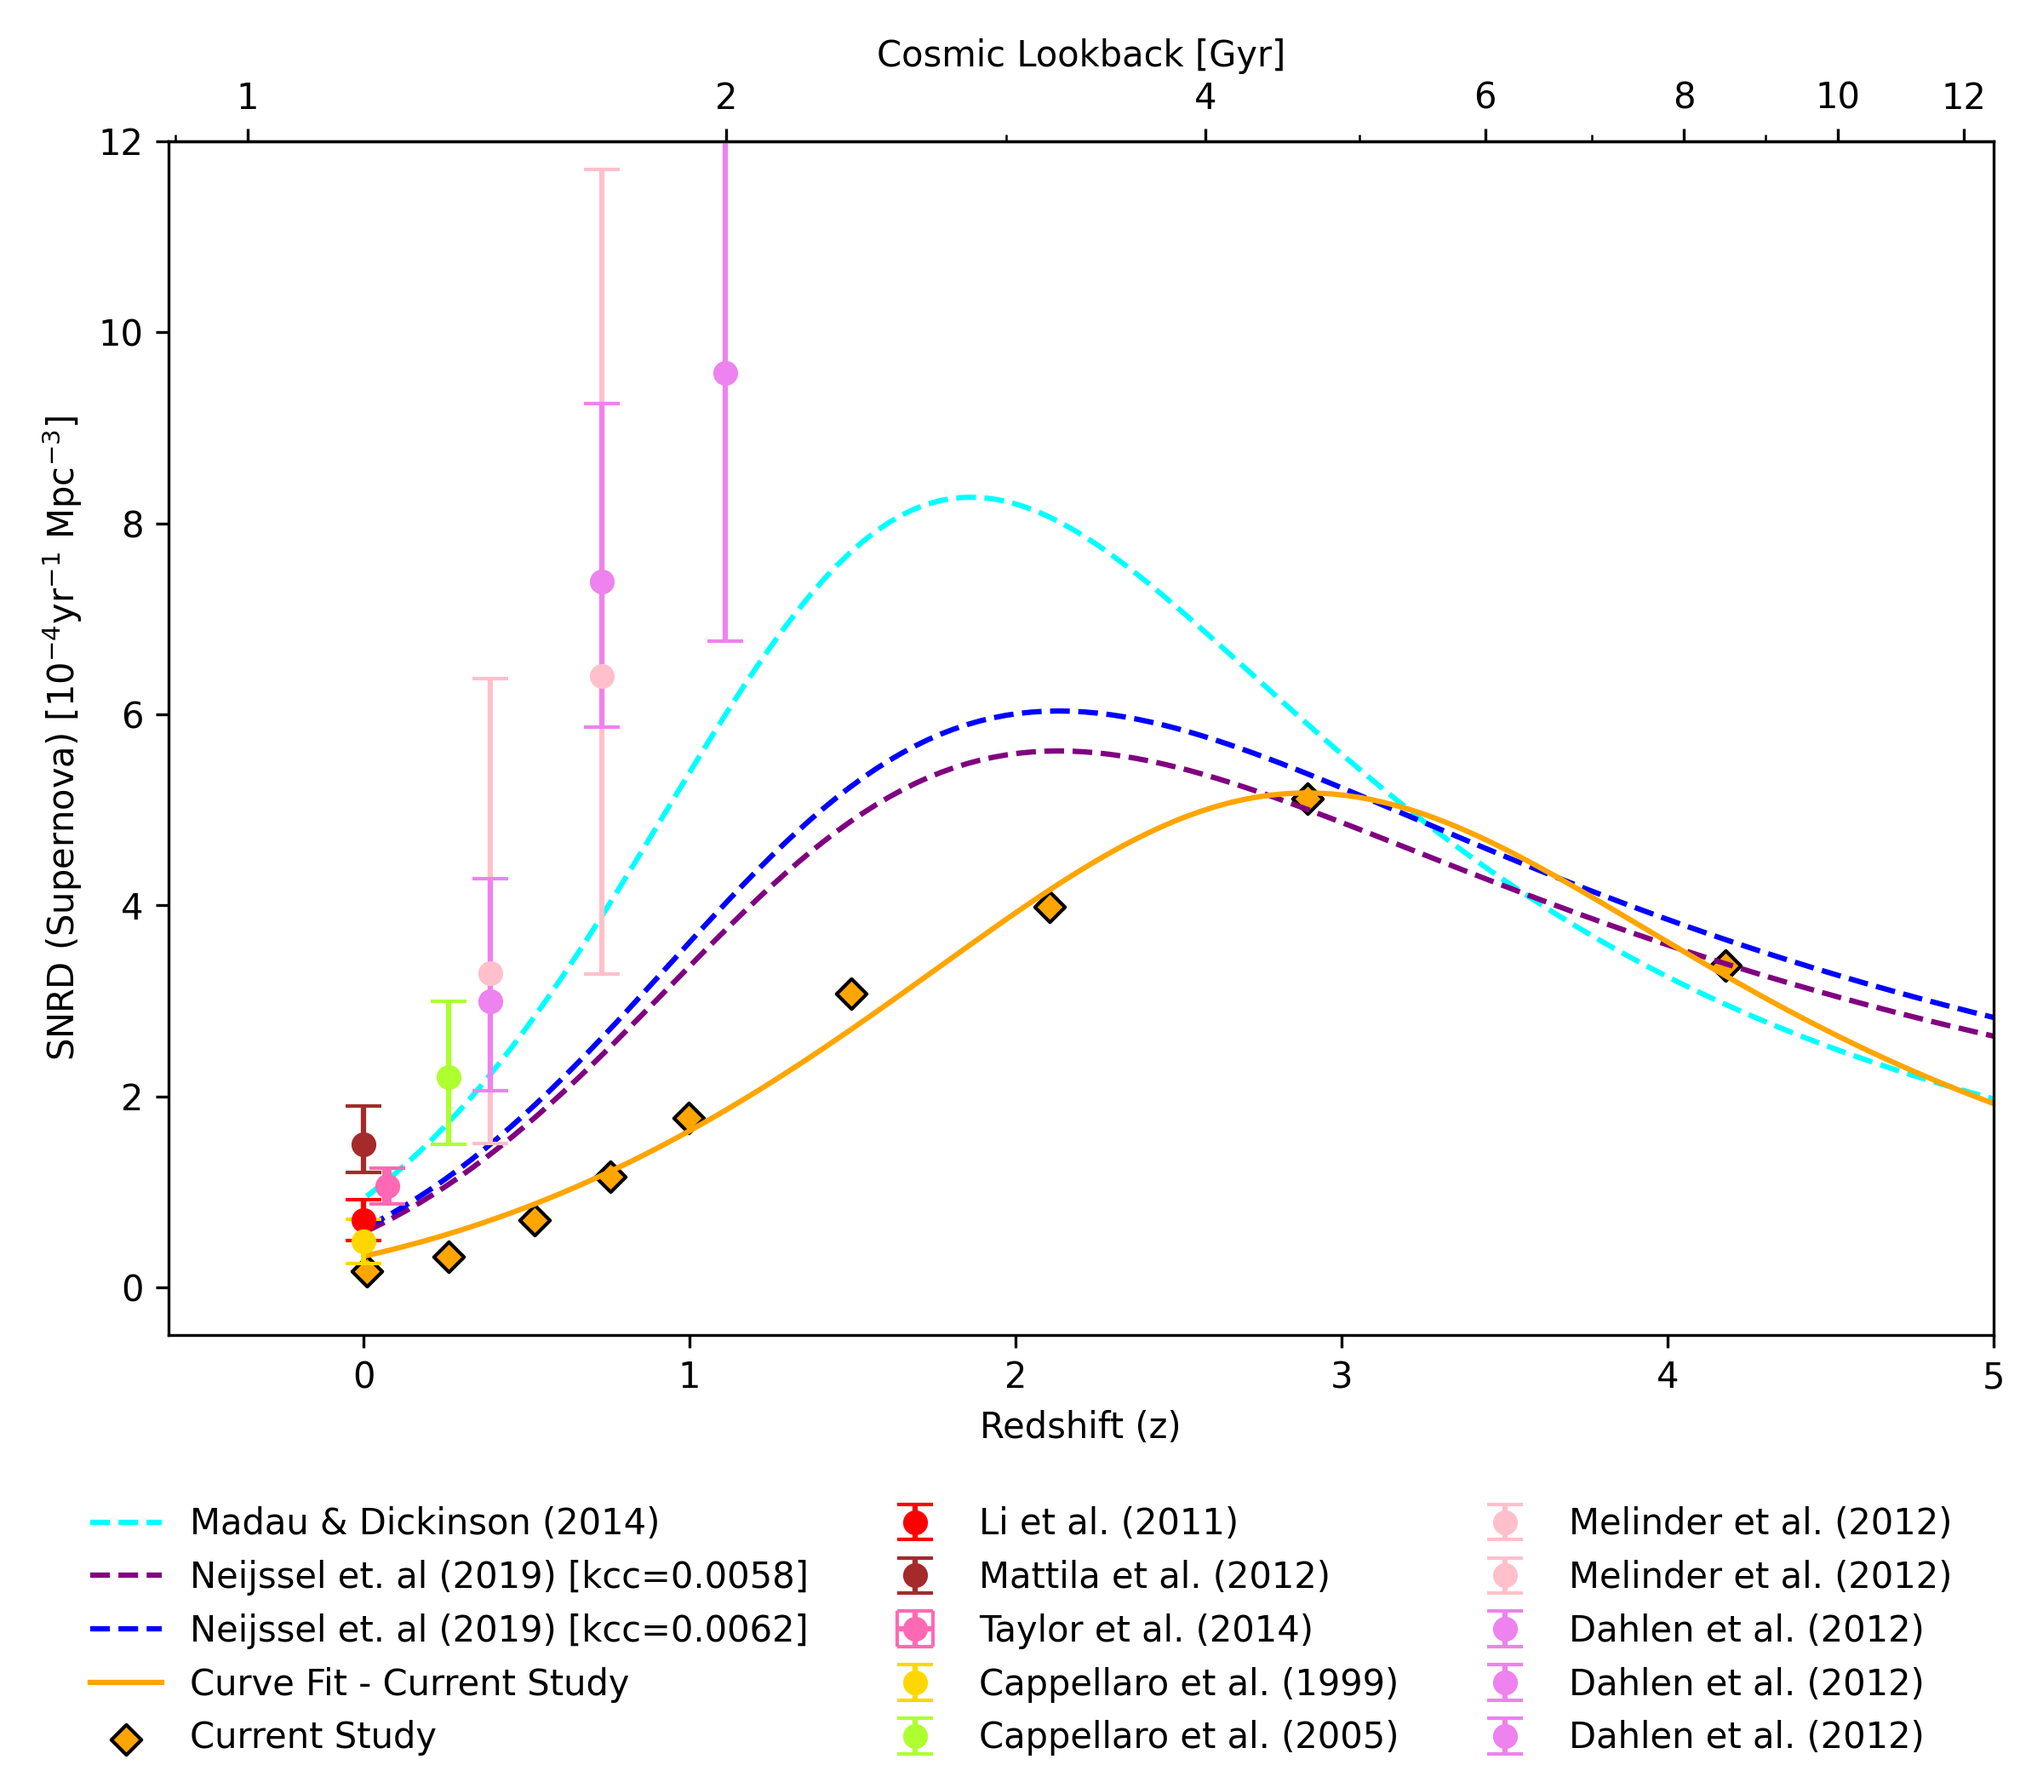
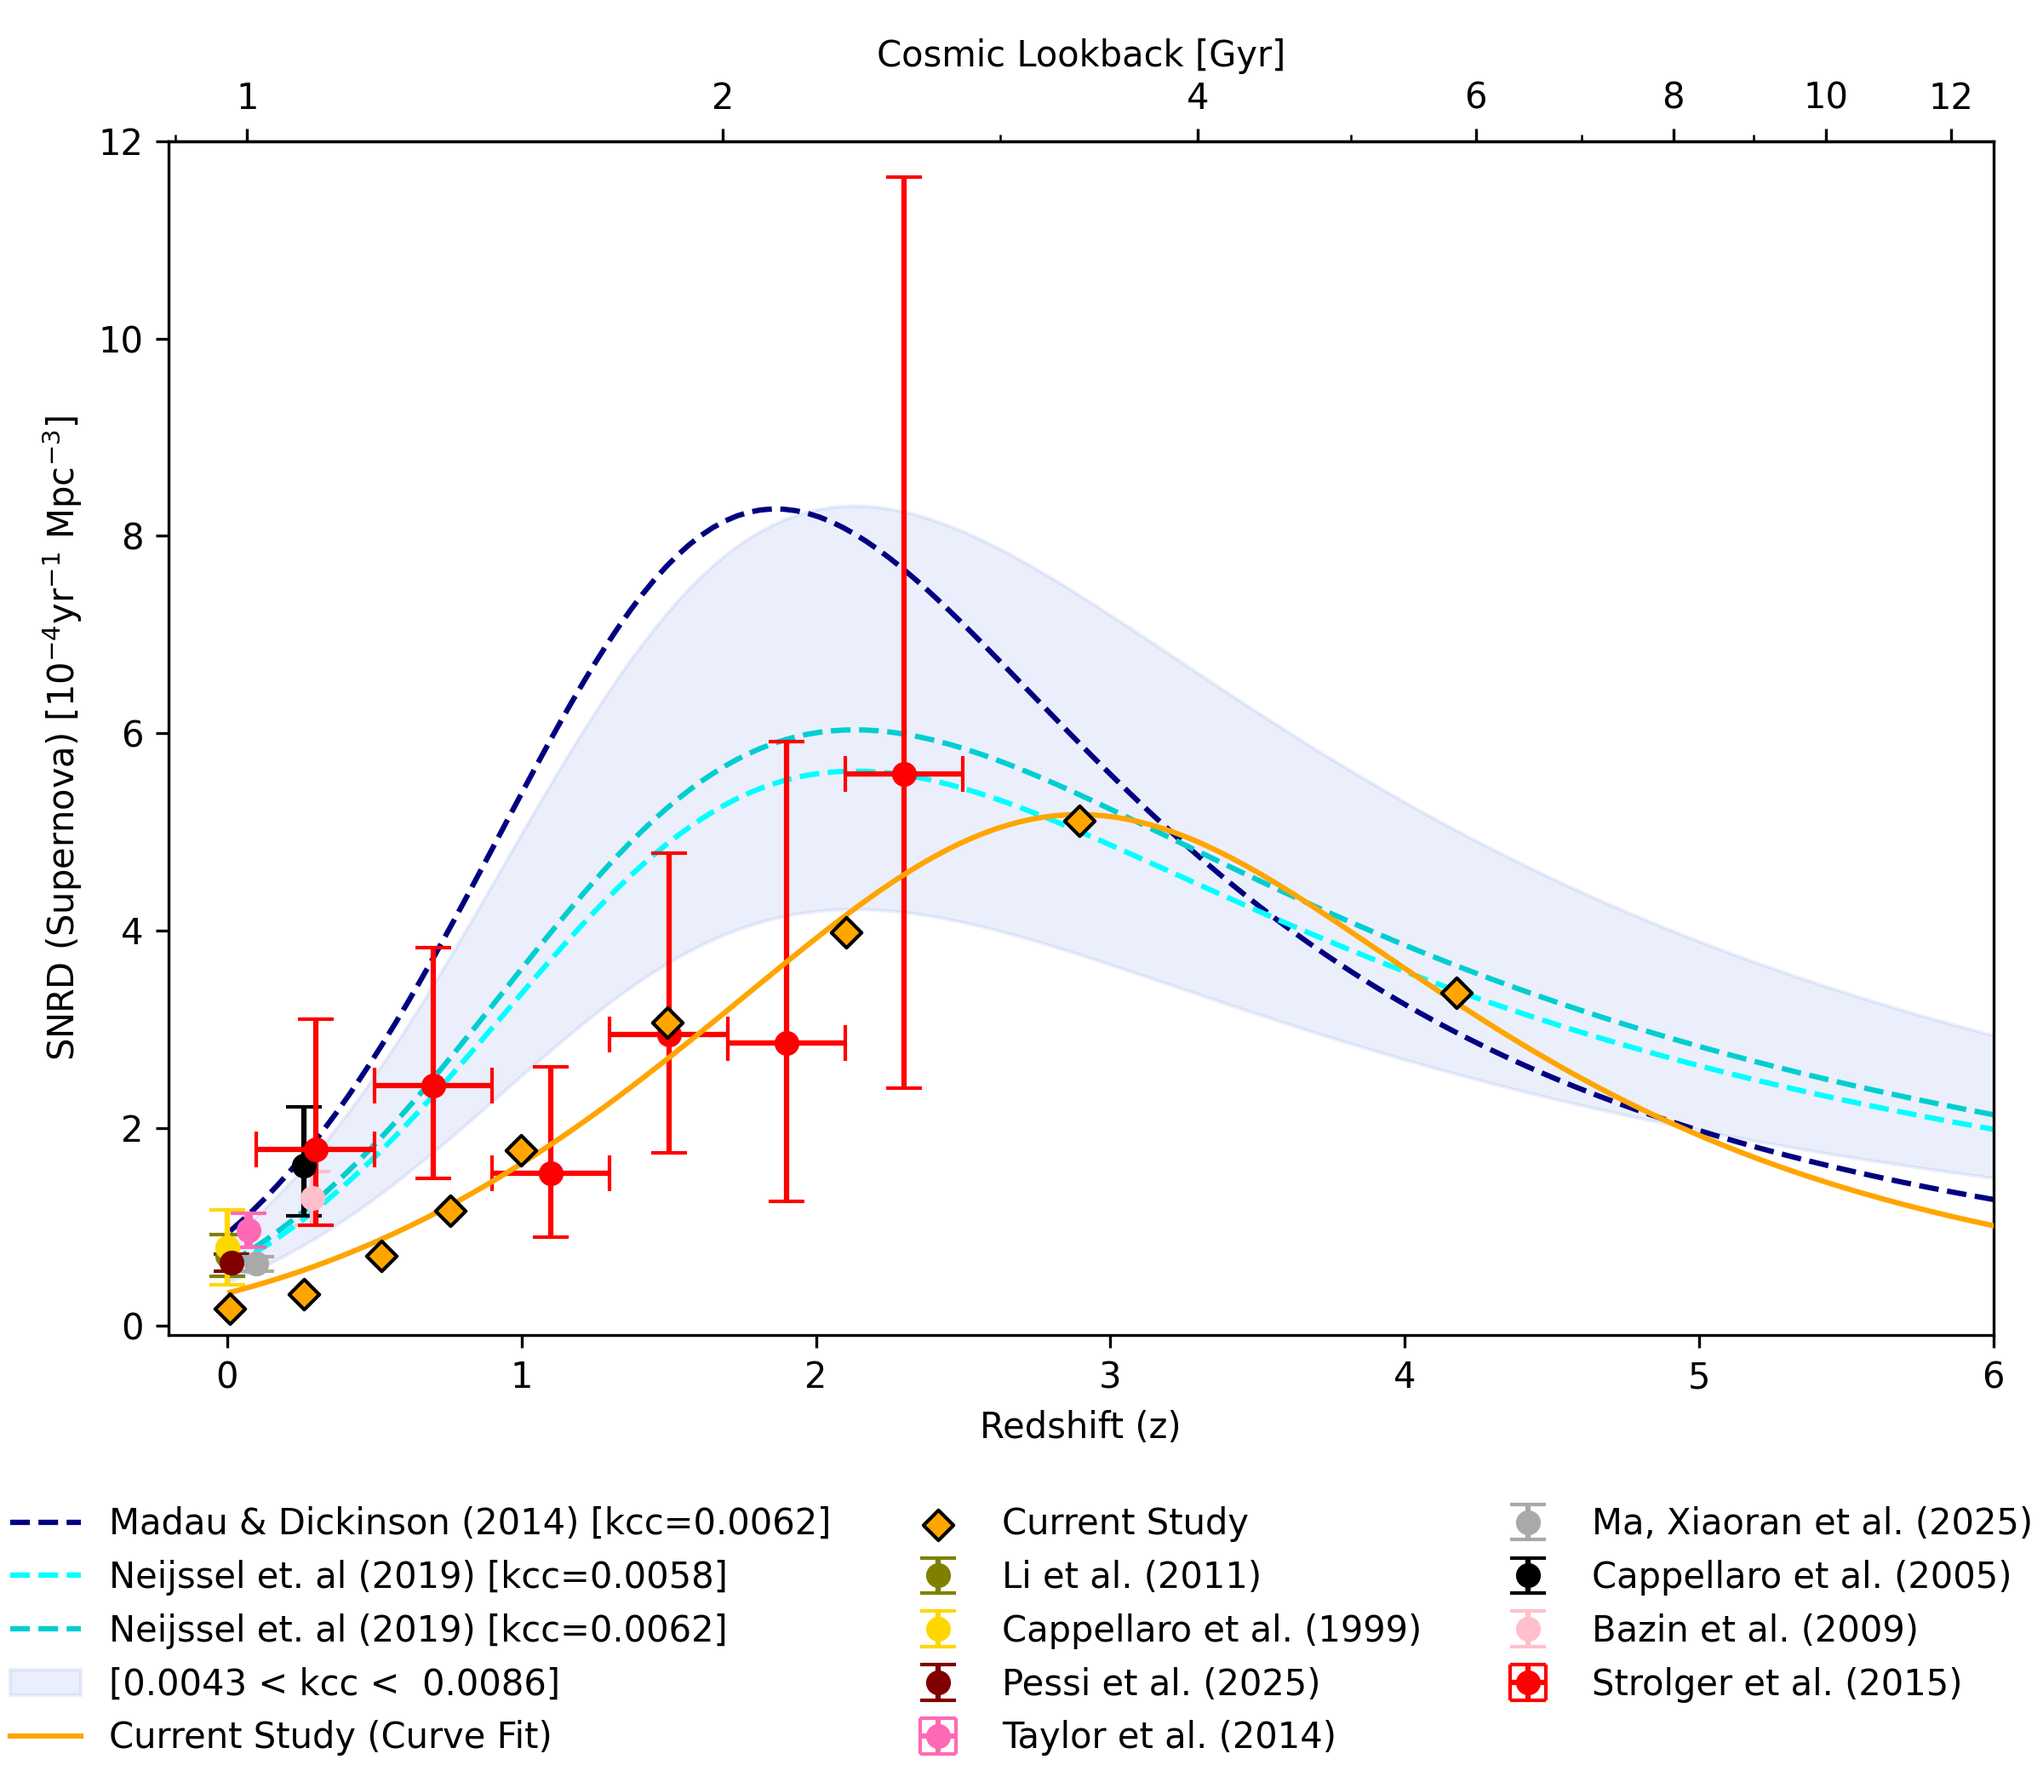
updated cosmic graphs

diff --git a/tng.py b/tng.py
@@ -701,44 +701,73 @@ print('scaling lower;', kcc_1_lower)
 snrd_md14 = 0.015 * pow((1 + redshift_linespace), 2.7)/(1 + pow((1 + redshift_linespace)/2.9, 5.6)) * kcc_1
 snrd_mf17 = 0.01 * pow((1 + redshift_linespace), 2.6)/(1 + pow((1 + redshift_linespace)/3.2, 6.2)) * kcc_1
 
-snrd_nv19 = 0.01 * pow((1 + redshift_linespace), 2.77)/(1 + pow((1 + redshift_linespace)/2.9, 4.7))
+sfrd_nv19 = 0.01 * pow((1 + redshift_linespace), 2.77)/(1 + pow((1 + redshift_linespace)/2.9, 4.7))
 
 # plot lines
-ax_total_snr.plot(redshift_linespace, snrd_md14, label=f'Madau & Dickinson (2014)', color='cyan', ls='--')
+ax_total_snr.plot(redshift_linespace, snrd_md14, label=f'Madau & Dickinson (2014) [kcc={kcc_1:.4f}]', color='navy', ls='--')
 #ax_total_snr.plot(redshift_linespace, snrd_mf17, label=f'Madau & Fragos (2017)', color='purple', ls='--')
-ax_total_snr.plot(redshift_linespace, snrd_nv19 * kcc_avg, label=f'Neijssel et. al (2019) [kcc={kcc_avg:.4f}]', color='purple', ls='--')
-ax_total_snr.plot(redshift_linespace, snrd_nv19 * kcc_1, label=f'Neijssel et. al (2019) [kcc={kcc_1:.4f}]', color='blue', ls='--')
-#ax_total_snr.plot(redshift_linespace, snrd_nv19 * kcc_1_upper, label=f'Neijssel et. al (2019) [kcc={kcc_1_upper:.4f}]', color='navy', ls='--')
-#ax_total_snr.plot(redshift_linespace, snrd_nv19 * kcc_1_lower, label=f'Neijssel et. al (2019) [kcc={kcc_1_lower:.4f}]', color='cyan', ls='--')
-ax_total_snr.plot(redshift_linespace, curve_snr, label=f'Curve Fit - Current Study', color='orange')
-#ax_total_snr.plot(redshift_linespace, curve_all * kcc, label=f'Curve Fit - TNG100-1 (All Halos)', color='lime')
+ax_total_snr.plot(redshift_linespace, sfrd_nv19 * kcc_avg, label=f'Neijssel et. al (2019) [kcc={kcc_avg:.4f}]', color='cyan', ls='--')
+ax_total_snr.plot(redshift_linespace, sfrd_nv19 * kcc_1, label=f'Neijssel et. al (2019) [kcc={kcc_1:.4f}]', color='darkturquoise', ls='--')
+ax_total_snr.fill_between(redshift_linespace, sfrd_nv19 * kcc_IIP, sfrd_nv19 * kcc_Ibc, color='royalblue', alpha=0.1, label=f'[{kcc_Ibc:.4f} < kcc <  {kcc_IIP:.4f}]')
+ax_total_snr.plot(redshift_linespace, curve_snr, label=f'Current Study (Curve Fit)', color='orange', zorder=99)
 
 # scatter
-ax_total_snr.scatter(rev_redshifts, total_snr, label=f'Current Study', color='orange', marker='D', edgecolors='black')
+ax_total_snr.scatter(rev_redshifts, total_snr, label=f'Current Study', color='orange', marker='D', edgecolors='black', zorder=100)
 #ax_total_snr.scatter(rev_redshifts, sfrh_halos * kcc, label=f'TNG100-1 (All Halos)', color='lime', marker='D', edgecolors='black')
 
 # plot data points
-#ax_total_snr.axhline(0.447e-4, color='black', ls='--', label='0.447e-4')
-#ax_total_snr.axhline(0.258e-4, color='black', ls='--', label='0.258e-4')
-ax_total_snr.errorbar(0, 0.258e-4+0.447e-4, yerr=0.072e-4+0.139e-4, capsize=5, color='red', label='Li et al. (2011)', fmt='o')
-ax_total_snr.errorbar(0, 1.5e-4, yerr=[[0.3e-4], [0.4e-4]], capsize=5, color='brown', label='Mattila et al. (2012)', fmt='o')
-ax_total_snr.errorbar(0.072, 1.06e-4, yerr=[[0.19e-4], [0.19e-4]], xerr=[[0.009], [0.009]], capsize=5, color='hotpink', label='Taylor et al. (2014)', fmt='o')
-ax_total_snr.errorbar(0, 0.48e-4, yerr=[[0.23e-4], [0.23e-4]], capsize=5, color='gold', label='Cappellaro et al. (1999)', fmt='o')
-ax_total_snr.errorbar(0.26, 2.2e-4, yerr=[[0.7e-4], [0.8e-4]], capsize=5, color='greenyellow', label='Cappellaro et al. (2005)', fmt='o')
+H0 = 67.74 # km/s/Mpc from the TNG project
+h70 = H0/70 
+h75 = H0/75
+rho_b = 1.82e8 * h75 #Norberg et al -> luminosity density 
+c1999 = ((0.48/100) /1e10 ) * rho_b # conversion to yr-1 Mpc-3 using  1 SN (100yr)−1 (1010LBo)-1 abd h75
+c1999_err = ((0.23/100) /1e10 ) * rho_b
+print(f"Hubble, {h70}, {h75}")
+ax_total_snr.errorbar(0, 0.258e-4+0.447e-4, yerr=0.072e-4+0.139e-4, capsize=5, color='olive', label='Li et al. (2011)', fmt='o') #SN Mpc−3 yr−1 -> no conversion required - combimnation of II and Ibc rates
+#ax_total_snr.errorbar(0, 1.5e-4, yerr=[[0.3e-4], [0.4e-4]], capsize=5, color='brown', label='Mattila et al. (2012)', fmt='o')
+ax_total_snr.errorbar(0, c1999, yerr=[[c1999_err], [c1999_err]], capsize=5, color='gold', label='Cappellaro et al. (1999)', fmt='o') # converted using rate in SNu -> 1 SNu = 1 SN (100yr)−1 (1010LBo)-1
+ax_total_snr.errorbar(0.0149, 0.7e-4 * h70**3, yerr=[[0.09e-4 * h70**3], [0.1e-4 * h70**3]], capsize=5, color='maroon', label='Pessi et al. (2025)', fmt='o') #yr−1Mpc−3h370 -> remove h depdendance (has fractiosn and indifical rates as well)
+ax_total_snr.errorbar(0.072, 1.06e-4 * h70**3, yerr=[[0.19e-4 * h70**3], [0.19e-4 * h70**3]], xerr=[[0.009], [0.009]], capsize=5, color='hotpink', label='Taylor et al. (2014)', fmt='o') #(h/0.7)3 /(yr Mpc3)-> remove h70 dependance
+ax_total_snr.errorbar(0.1, 0.688e-4 * h70**3, yerr=[[0.078e-4 * h70**3], [0.078e-4 * h70**3]], capsize=5, color='darkgrey', label='Ma, Xiaoran et al. (2025)', fmt='o') #yr−1Mpc−3h370 -> remove h depdendance
+ax_total_snr.errorbar(0.26, 2.2e-4 * h75**3, yerr=[[0.7e-4 * h75**3], [0.8e-4 * h75**3]], capsize=5, color='black', label='Cappellaro et al. (2005)', fmt='o') # h3yr−1Mpc−3 -> h=h0/75
+ax_total_snr.errorbar(0.29, 1.42e-4 * h70**3, yerr=[[0.3e-4 * h70**3], [0.3e-4 * h70**3]], capsize=5, color='pink', label='Bazin et al. (2009)', fmt='o') # yr-1 (h70-1 Mpc)-3 [Measured from 117 ccSNe]
+
+# Strolger Et Al 2015 - all rates in  yr−1 Mpc−3 10−4h703
+# Ma et al quote table 2 not table 4 
+# GOODS + CANDLES + CLASH (table 4)
+"""
+ax_total_snr.errorbar(0.3, 2.13e-4 * h70**3, yerr=[[0.54e-4 * h70**3], [0.8e-4 * h70**3]], xerr=0.2, capsize=5, color='violet', label='Strolger et al. (2015)', fmt='o')
+ax_total_snr.errorbar(0.7, 3.86e-4 * h70**3, yerr=[[0.72e-4 * h70**3], [0.96e-4 * h70**3]], xerr=0.2, capsize=5, color='violet', label='Strolger et al. (2015)', fmt='o')
+ax_total_snr.errorbar(1.1, 3.07e-4 * h70**3, yerr=[[0.66e-4 * h70**3], [1.06e-4 * h70**3]], xerr=0.2, capsize=5, color='violet', label='Strolger et al. (2015)', fmt='o')
+ax_total_snr.errorbar(1.5, 3.25e-4 * h70**3, yerr=[[1.32e-4 * h70**3], [2.03e-4 * h70**3]], xerr=0.2, capsize=5, color='violet', label='Strolger et al. (2015)', fmt='o')
+ax_total_snr.errorbar(1.9, 3.16e-4 * h70**3, yerr=[[1.77e-4 * h70**3], [3.37e-4 * h70**3]], xerr=0.2, capsize=5, color='violet', label='Strolger et al. (2015)', fmt='o')
+ax_total_snr.errorbar(2.3, 6.17e-4 * h70**3, yerr=[[3.52e-4 * h70**3], [6.67e-4 * h70**3]], xerr=0.2, capsize=5, color='violet', label='Strolger et al. (2015)', fmt='o')
+"""
+# CANDLES + CLASH (table 2) as used by Ma and Wang et al (2025)
+ax_total_snr.errorbar(0.3, 1.97e-4 * h70**3, yerr=[[0.85e-4 * h70**3], [1.45e-4 * h70**3]], xerr=0.2, capsize=5, color='red', label='Strolger et al. (2015)', fmt='o')
+ax_total_snr.errorbar(0.7, 2.68e-4 * h70**3, yerr=[[1.04e-4 * h70**3], [1.54e-4 * h70**3]], xerr=0.2, capsize=5, color='red', fmt='o')
+ax_total_snr.errorbar(1.1, 1.70e-4 * h70**3, yerr=[[0.71e-4 * h70**3], [1.19e-4 * h70**3]], xerr=0.2, capsize=5, color='red', fmt='o')
+ax_total_snr.errorbar(1.5, 3.25e-4 * h70**3, yerr=[[1.32e-4 * h70**3], [2.03e-4 * h70**3]], xerr=0.2, capsize=5, color='red', fmt='o')
+ax_total_snr.errorbar(1.9, 3.16e-4 * h70**3, yerr=[[1.77e-4 * h70**3], [3.37e-4 * h70**3]], xerr=0.2, capsize=5, color='red', fmt='o')
+ax_total_snr.errorbar(2.3, 6.17e-4 * h70**3, yerr=[[3.52e-4 * h70**3], [6.67e-4 * h70**3]], xerr=0.2, capsize=5, color='red', fmt='o')
+
+"""
+#Melinder et al. (2012)
 ax_total_snr.errorbar(0.39, 3.29e-4, yerr=[[1.78e-4], [3.08e-4]], capsize=5, color='pink', label='Melinder et al. (2012)', fmt='o') # using statistical errors
 ax_total_snr.errorbar(0.73, 6.40e-4, yerr=[[3.12e-4], [5.30e-4]], capsize=5, color='pink', label='Melinder et al. (2012)', fmt='o')
 
-ax_total_snr.errorbar(0.39, 3e-4, yerr=[[0.94e-4], [1.28e-4]], capsize=5, color='violet', label='Dahlen et al. (2012)', fmt='o')
-ax_total_snr.errorbar(0.73, 7.39e-4, yerr=[[1.52e-4], [1.86e-4]], capsize=5, color='violet', label='Dahlen et al. (2012)', fmt='o')
-ax_total_snr.errorbar(1.11, 9.57e-4, yerr=[[2.80e-4], [3.76e-4]], capsize=5, color='violet', label='Dahlen et al. (2012)', fmt='o')
+# Dahlen et al. Mpc−3 10−4 h70^3 -> remove h dependance
+ax_total_snr.errorbar(0.39, 3e-4* h70**3, yerr=[[0.94e-4* h70**3], [1.28e-4* h70**3]], capsize=5, color='violet', label='Dahlen et al. (2012)', fmt='o')
+ax_total_snr.errorbar(0.73, 7.39e-4* h70**3, yerr=[[1.52e-4* h70**3], [1.86e-4* h70**3]], capsize=5, color='violet', label='Dahlen et al. (2012)', fmt='o')
+ax_total_snr.errorbar(1.11, 9.57e-4* h70**3, yerr=[[2.80e-4* h70**3], [3.76e-4* h70**3]], capsize=5, color='violet', label='Dahlen et al. (2012)', fmt='o')
+"""
 
 # set legend and axes
 ax_total_snr.set_yscale('linear')
-ax_total_snr.set_ylim(-5e-5, 12e-4)
-ax_total_snr.set_xlim(right=5)
-ax_total_snr.yaxis.set_major_formatter(
-    ticker.FuncFormatter(lambda val, pos: f'{val*1e4:g}')
-)
+ax_total_snr.set_ylim(-1e-5, 12e-4)
+#ax_total_snr.set_ylim(1e-5, 10e-4)
+ax_total_snr.set_xlim(-0.2, 6)
+ax_total_snr.yaxis.set_major_formatter(ticker.FuncFormatter(lambda val, pos: f'{val*1e4:g}'))
 plt_labels(fig_total_snr, ax_total_snr, 3, 0.17)
 
 fig_types1.savefig("Data/Images/TNG/final/cosmic_type.png", dpi=300)
